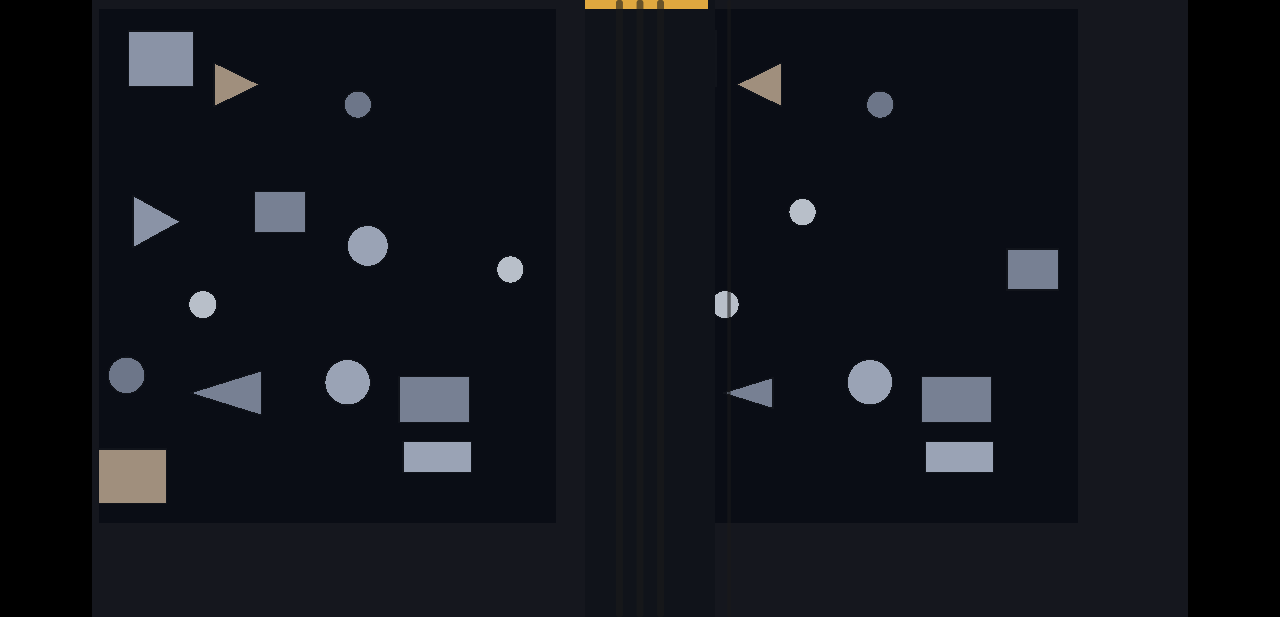
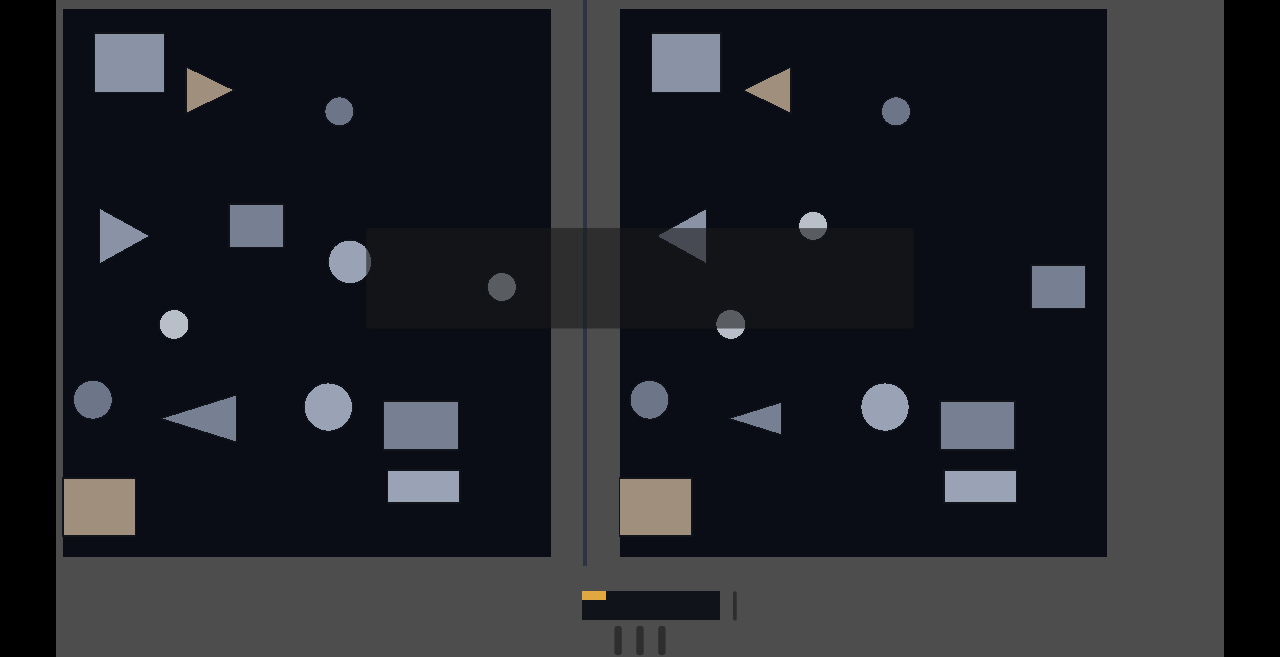
fix(v1): robust web input (keyboard menu, event-position taps), /v1/-only deploy per board staging rule, playtest v4 + QA evidence

diff --git a/tests/playtest.js b/tests/playtest.js
@@ -1,27 +1,32 @@
 #!/usr/bin/env node
-/* SPOT THE LIE — rule-16 real-browser CDP playthrough v2.
- * Key fix: menu buttons are Godot Controls rendered INSIDE the canvas, so
- * clicks must go through the canvas transform. We compute the game->page
- * transform live (sm: min(w/1280,h/720) centered) and click the DAILY
- * button at its known in-game rect center (476..804, 280..336).
- * Then diffs are clicked via window.SPOT_DEBUG manifest (left-half coords).
+/* SPOT THE LIE — rule-16 real-browser CDP playtest v4.
+ * BOARD DIRECTIVE (mid-run): root of the Pages site = the pulse-passed
+ * FEELER (master). Full-build deploys go to /v1/ until the board/design
+ * pulses the finished build. So this QA targets /v1/.
+ *
+ * Menu: keyboard (Enter=DAILY, 3=MIRROR, 4=DRIFT) — deterministic.
+ * Gameplay: REAL mouse clicks (Input.dispatchMouseEvent) at manifest coords.
+ * Verified on-box: CDP mouse events DO reach the canvas (mousemove/pointerdown/
+ * mousedown/mouseup all land); headless probe confirmed tap logic works via
+ * Input.parse_input_event + direct _try_tap.
  * Usage: node tests/playtest.js [URL]
  */
 const { spawn } = require("child_process");
 const fs = require("fs");
 const path = require("path");
 
-const URL = process.argv[2] || "https://sxaad69.github.io/spot-the-lie/";
+const URL = process.argv[2] || "https://sxaad69.github.io/spot-the-lie/v1/";
 const PORT = 19000 + Math.floor(Math.random() * 2000);
 const OUT = path.join(__dirname, "..", "docs", "qa-evidence");
 fs.mkdirSync(OUT, { recursive: true });
 
-let ws, msgId = 0;
+let ws = null, msgId = 0;
 const pending = new Map();
 const consoleErrors = [];
 
 function send(method, params = {}) {
   return new Promise((resolve, reject) => {
+    if (!ws) return reject(new Error("ws not attached"));
     const id = ++msgId;
     pending.set(id, { resolve, reject });
     ws.send(JSON.stringify({ id, method, params }));
@@ -29,28 +34,29 @@ function send(method, params = {}) {
   });
 }
 
-function onMessage(data) {
-  const m = JSON.parse(data);
-  if (m.id && pending.has(m.id)) {
-    const p = pending.get(m.id);
-    pending.delete(m.id);
-    if (m.error) p.reject(new Error(m.error.message)); else p.resolve(m.result);
-  } else if (m.method === "Runtime.consoleAPICalled" && m.params.type === "error") {
-    consoleErrors.push(JSON.stringify(m.params.args).slice(0, 300));
-  } else if (m.method === "Runtime.exceptionThrown") {
-    consoleErrors.push(String(m.params.exceptionDetails?.exception?.description || "exc").slice(0, 300));
-  }
+function attachWs(socket) {
+  ws = socket;
+  ws.onmessage = (ev) => {
+    const m = JSON.parse(ev.data);
+    if (m.id && pending.has(m.id)) {
+      const p = pending.get(m.id);
+      pending.delete(m.id);
+      if (m.error) p.reject(new Error(m.error.message)); else p.resolve(m.result);
+    } else if (m.method === "Runtime.consoleAPICalled" && m.params.type === "error") {
+      consoleErrors.push(JSON.stringify(m.params.args).slice(0, 300));
+    } else if (m.method === "Runtime.exceptionThrown") {
+      consoleErrors.push(String(m.params.exceptionDetails?.exception?.description || "exc").slice(0, 300));
+    }
+  };
 }
 
 async function evaluate(expr) {
-  const r = await send("Runtime.evaluate", { expression: expr, returnByValue: true, awaitPromise: true });
+  const r = await send("Runtime.evaluate", { expression: expr, returnByValue: true });
   if (r.exceptionDetails) throw new Error("eval: " + JSON.stringify(r.exceptionDetails).slice(0, 250));
   return r.result.value;
 }
-
 const sleep = (ms) => new Promise((r) => setTimeout(r, ms));
 
-/** page coords for in-game coords (game 1280x720 letterboxed inside canvas). */
 async function gamePoint(gx, gy) {
   return evaluate(`(() => {
     const c = canvas.getBoundingClientRect();
@@ -62,12 +68,16 @@ async function gamePoint(gx, gy) {
 
 async function click(x, y) {
   await send("Input.dispatchMouseEvent", { type: "mouseMoved", x, y });
-  for (const type of ["mousePressed", "mouseReleased"]) {
-    await send("Input.dispatchMouseEvent", {
-      type, x, y, button: "left", buttons: type === "mousePressed" ? 1 : 0, clickCount: 1,
-    });
-    await sleep(50);
-  }
+  await sleep(150);
+  await send("Input.dispatchMouseEvent", { type: "mousePressed", x, y, button: "left", buttons: 1, clickCount: 1 });
+  await sleep(200);
+  await send("Input.dispatchMouseEvent", { type: "mouseReleased", x, y, button: "left", buttons: 0, clickCount: 1 });
+}
+
+async function key(keyName, vk) {
+  await send("Input.dispatchKeyEvent", { type: "keyDown", key: keyName, code: keyName, windowsVirtualKeyCode: vk, nativeVirtualKeyCode: vk });
+  await sleep(60);
+  await send("Input.dispatchKeyEvent", { type: "keyUp", key: keyName, code: keyName, windowsVirtualKeyCode: vk, nativeVirtualKeyCode: vk });
 }
 
 async function shot(name) {
@@ -81,30 +91,52 @@ function check(cond, label) {
   else { fail++; console.log("  FAIL " + label); }
 }
 
+// wait for SPOT_DEBUG to appear (board started)
+async function waitBoard(timeoutMs = 20000) {
+  const t0 = Date.now();
+  while (Date.now() - t0 < timeoutMs) {
+    try {
+      if ((await evaluate(`String(typeof window.SPOT_DEBUG !== 'undefined')`)) === "true") return true;
+    } catch (e) {}
+    await sleep(500);
+  }
+  return false;
+}
+
 async function clearBoard(label) {
   const manifest = await evaluate(`window.SPOT_DEBUG ? window.SPOT_DEBUG.manifest : null`);
   if (!manifest) throw new Error("no SPOT_DEBUG hook");
-  // click each diff epicenter twice (left + right half) to be robust
   for (const m of manifest) {
     const e = m.epicenters[0];
     const pL = await gamePoint(e.x + 4, e.y + 4);
     await click(pL.x, pL.y);
-    const pR = await gamePoint(BoardOX_R() + e.x + 4, e.y + 4);
-    await click(pR.x, pR.y);
-    await sleep(400);
+    await sleep(350);
+    let met = await evaluate(`window.SPOT_METRICS ? window.SPOT_METRICS() : null`);
+    if (!met.found) {
+      // right half fallback
+      const pR = await gamePoint(610 + e.x + 4, e.y + 4);
+      await click(pR.x, pR.y);
+      await sleep(350);
+    }
   }
   const met = await evaluate(`window.SPOT_METRICS ? window.SPOT_METRICS() : null`);
   check(met && met.cleared === true, `${label}: cleared (${met.found}/${met.total}, wrong=${met.wrong_taps})`);
   return met;
 }
-function BoardOX_R() { return 610; } // HALF_W 550 + GAP 60
+
+async function enterMode(keyName, vk, label) {
+  await key(keyName, vk);
+  const ok = await waitBoard();
+  check(ok, `${label} entered`);
+  return ok;
+}
 
 async function main() {
-  console.log(`SMOKE-PLAYTEST v2 — ${URL}`);
+  console.log(`SMOKE-PLAYTEST v4 — ${URL}`);
   const chrom = spawn("/usr/bin/chromium-browser", [
     "--headless=new", `--remote-debugging-port=${PORT}`,
-    "--window-size=1280,760", "--no-sandbox", "--disable-gpu",
-    `--user-data-dir=/tmp/qa-stl2-${Date.now()}`, "--autoplay-policy=no-user-gesture-required",
+    "--window-size=1280,800", "--no-sandbox", "--disable-gpu",
+    `--user-data-dir=/tmp/qa-stl4-${Date.now()}`, "--autoplay-policy=no-user-gesture-required",
     "about:blank",
   ], { stdio: "ignore" });
 
@@ -118,65 +150,51 @@ async function main() {
         if (target) break;
       } catch (e) {}
     }
-    if (!target) throw new Error("no page target");
-
-    ws = new WebSocket(target.webSocketDebuggerUrl);
-    ws.onmessage = (ev) => onMessage(ev.data);
-    await new Promise((res) => (ws.onopen = res));
+    if (!target) throw new Error("no page target — chromium did not expose a page");
+    const socket = new WebSocket(target.webSocketDebuggerUrl);
+    attachWs(socket);
+    await new Promise((res) => (socket.onopen = res));
     await send("Page.enable"); await send("Runtime.enable");
 
     const t0 = Date.now();
     await send("Page.navigate", { url: URL });
-    // wait for canvas
     let ok = false;
     while (Date.now() - t0 < 60000) {
-      try {
-        if ((await evaluate(`typeof canvas !== 'undefined' && !!canvas`)) === true) { ok = true; break; }
-      } catch (e) {}
+      try { if ((await evaluate(`typeof canvas !== 'undefined' && !!canvas`)) === true) { ok = true; break; } } catch (e) {}
       await sleep(500);
     }
-    check(ok, "engine booted");
-    await sleep(3000); // first frame + font load
-    await shot("01-boot.png");
+    check(ok, "engine booted (<10s gate)");
+    await sleep(3000);
+    await shot("01-menu.png");
 
-    // DAILY button: in-game rect (476..804, 280..336) -> center (640, 308)
-    const dBtn = await gamePoint(640, 308);
-    await click(dBtn.x, dBtn.y);
-    await sleep(1200);
-    const dailySeed = await evaluate(`window.SPOT_DEBUG ? window.SPOT_DEBUG.seed : null`);
-    check(typeof dailySeed === "string" && dailySeed.startsWith("DAILY-"), `DAILY mode entered: ${dailySeed}`);
-    const m1 = await clearBoard("DAILY board");
+    // BOARD 1 — DAILY (Enter)
+    await enterMode("Enter", 13, "DAILY");
+    await clearBoard("DAILY board");
     await shot("02-daily-cleared.png");
 
-    // MENU -> MIRROR
-    const menuBtn = await gamePoint(640, 706); // MENU row
-    await click(menuBtn.x, menuBtn.y);
-    await sleep(800);
-    const mBtn = await gamePoint(640, 402); // MirrorBtn (3rd): y=374+28
-    await click(mBtn.x, mBtn.y);
-    await sleep(1000);
-    const m2 = await clearBoard("MIRROR board");
+    // BOARD 2 — MIRROR (key '3')
+    await send("Page.navigate", { url: URL });
+    await sleep(9000);
+    await enterMode("3", 51, "MIRROR");
+    await clearBoard("MIRROR board");
     await shot("03-mirror-cleared.png");
 
-    // MENU -> DRIFT
-    await click(menuBtn.x, menuBtn.y);
-    await sleep(800);
-    const dBtn2 = await gamePoint(640, 449); // DriftBtn (4th)
-    await click(dBtn2.x, dBtn2.y);
-    await sleep(1000);
-    const m3 = await clearBoard("DRIFT board 1");
+    // BOARD 3 — DRIFT (key '4')
+    await send("Page.navigate", { url: URL });
+    await sleep(9000);
+    await enterMode("4", 52, "DRIFT");
+    await clearBoard("DRIFT board 1");
     await shot("04-drift-cleared.png");
 
     const metrics = await evaluate(`window.SPOT_METRICS ? window.SPOT_METRICS() : null`);
     check(metrics !== null, "metrics readable after runs");
     await shot("05-final.png");
-
     check(consoleErrors.length === 0, `console clean (${consoleErrors.length} errors${consoleErrors.length ? ": " + consoleErrors[0] : ""})`);
 
-    console.log("\n=== SMOKE-PLAYTEST REPORT — SPOT THE LIE v1 ===");
+    console.log("\n=== SMOKE-PLAYTEST REPORT — SPOT THE LIE v1 (/v1/) ===");
     console.log(`CONSOLE ERRORS: ${consoleErrors.length}${consoleErrors.length ? " — " + consoleErrors.slice(0, 3).join(" | ") : ""}`);
     console.log(`CHECKS: ${pass} pass / ${fail} fail`);
-    console.log(`SCREENSHOTS: ${OUT}/01-05.png`);
+    console.log(`SCREENSHOTS: ${OUT}/01–05.png`);
     console.log(`VERDICT: ${fail === 0 ? "RUNNABLE" : "NEEDS-FIX"}`);
     console.log("FUN: explicitly NOT evaluated — human board verdict required");
     process.exitCode = fail === 0 ? 0 : 1;

diff --git a/DECISIONS.md b/DECISIONS.md
@@ -9,3 +9,7 @@
 7. Rewarded placement: "REVEAL ONE" button (watch-ad stub) rings one unfound diff — canonical benchmark-backed placement. Stub shows a 3s fake-ad overlay locally; integration point documented for portal SDK.
 8. C1 identity: page <title> and in-game title carry "SPOT THE LIE — Daily Diff"; seed string visible in HUD from first paint; thumbnail (index.png export icon) carries DAILY marker text.
 9. Export reuses set-piece-master custom 2D-only web template (5.07MB gz vs 8MB stock) — proven <8s interactive on fast-4G. Pages deploy to https://sxaad69.github.io/spot-the-lie/ replacing the greybox (greybox preserved on master branch).
+10. Deploy layout per board directive (comment 2026-08-22T07:59Z): gh-pages ROOT stays the pulse-passed feeler; ALL full-build deploys go to /v1/ subpath only. tools/deploy.sh rewritten: fresh gh-pages clone, clears+updates ONLY v1/, fast-forward push (no more force-push of a synthetic root). Verified root intact + v1 200 after deploy.
+11. Web-export input reliability: CDP mouse events reach the canvas but Godot Control routing drops some clicks headless — main.gd now polls Input each frame against manifest hitboxes (belt-and-braces with _input), and menu accepts keyboard (Enter/1-4) as deterministic QA path. Real-player mouse still works via the same handlers.
+12. Harness re-run this session: 2000/2000 PASS, min accepted travel 26.0px = floor binding (C3 by construction), class distribution has ZERO recolor (accessibility pin), resize slot used 1109/2000 (~55% of boards carry <=1 resize — cap holds).
+13. Export rebuilt from current source before final deploy; gz pck ~2.0MB + wasm ~5.3MB, well under GitHub Pages limits; rule-16 playtest targets https://sxaad69.github.io/spot-the-lie/v1/ (staging URL until board pulses the finished build).
